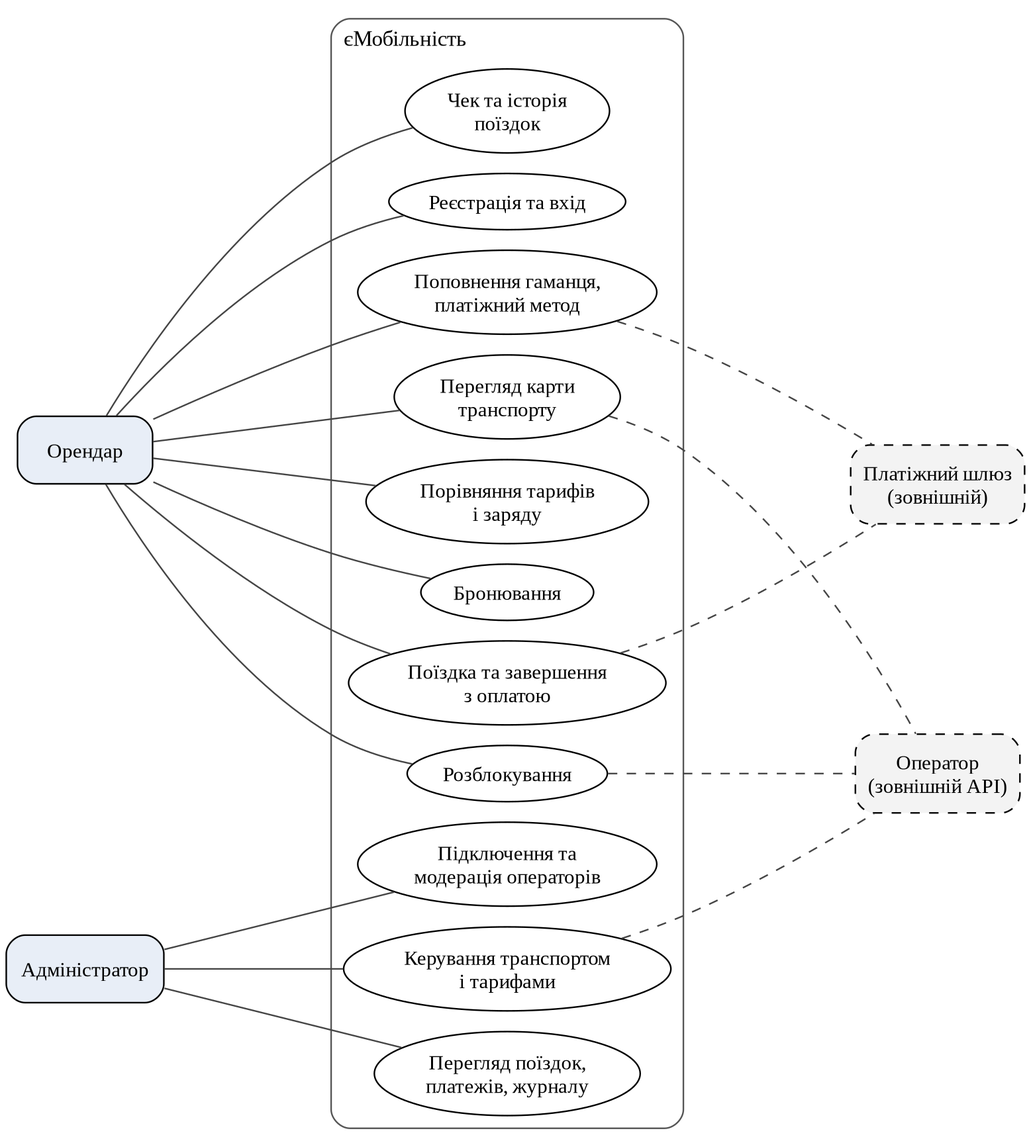
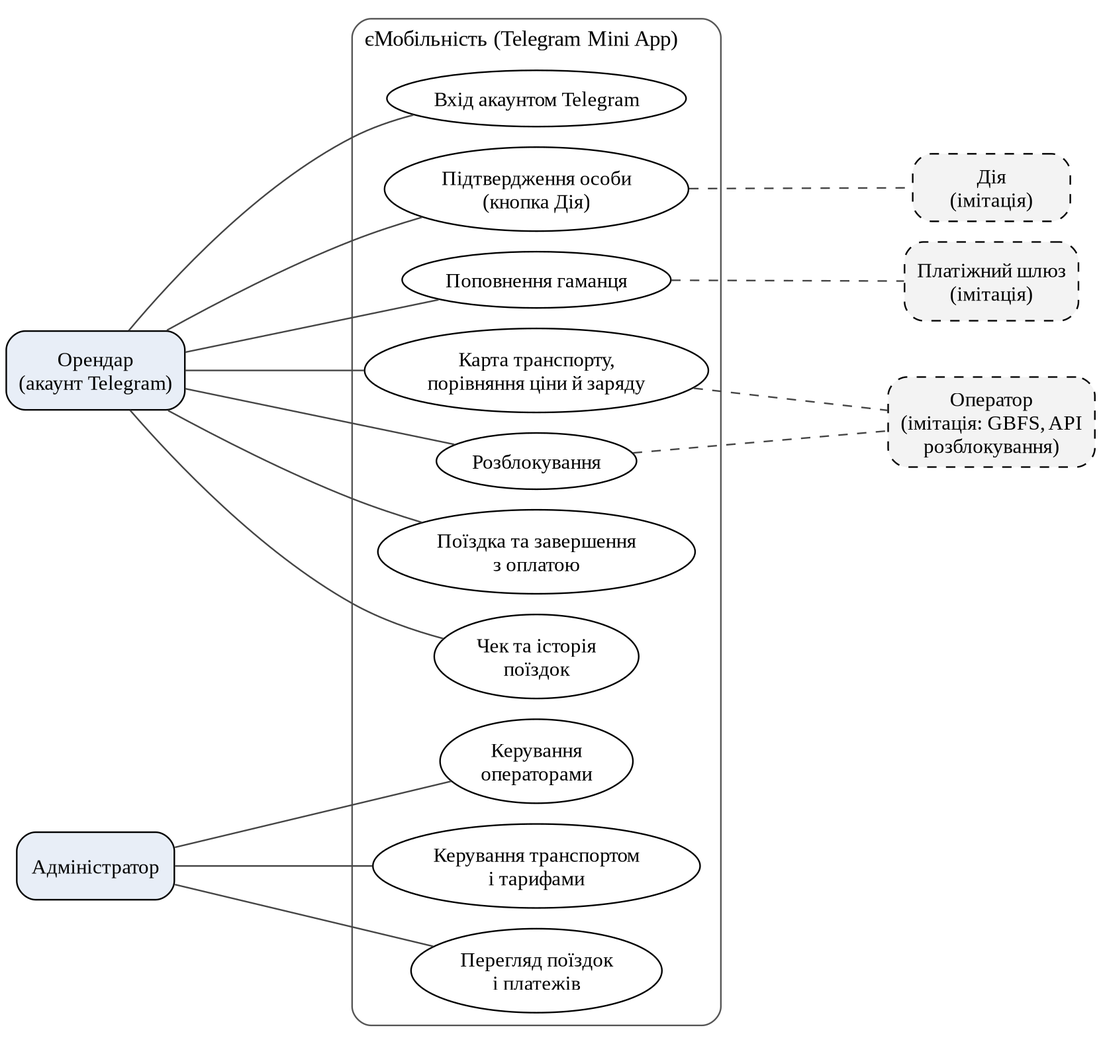
docs(dt): rewrite e-project spec as Telegram Mini App MVP

diff --git a/digital_tech/tz/report.md b/digital_tech/tz/report.md
@@ -2,15 +2,15 @@
 
 Назва розробки: «єМобільність — агрегатор оренди мікромобільного транспорту».
 
-Галузь застосування: міська мобільність, оренда мікромобільного транспорту (електросамокатів, електровелосипедів, скутерів і мопедів).
+Галузь застосування: міська мобільність, оренда мікромобільного транспорту в Києві (електросамокатів, електровелосипедів і скутерів).
 
-Наведене технічне завдання поширюється на розробку програмного забезпечення «єМобільність», яке використовується для оренди транспорту кількох операторів в одному застосунку: з одним акаунтом, одним гаманцем, зведеною картою, порівнянням тарифів і заряду, розблокуванням через API оператора, єдиним чеком та історією поїздок. Воно призначене для таких користувачів:
+Наведене технічне завдання поширюється на розробку програмного забезпечення «єМобільність» (MVP). Це Telegram Mini App, тобто вебзастосунок усередині Telegram, який відкривається з бота «єМобільність» (@emobility_ua_bot). Він використовується для оренди транспорту кількох операторів в одному застосунку: вхід за акаунтом Telegram, один гаманець, зведена карта, порівняння тарифів і заряду, розблокування через API оператора, єдиний чек та історія поїздок. Застосунок призначений для таких користувачів:
 
-- орендарі (B2C): студенти великих міст віком 18–25 років, міські працівники віком 25–45 років, туристи та епізодичні користувачі;
-- оператори мікромобільності (B2B): малі локальні оператори, для яких агрегатор стає каналом залучення клієнтів, і великі оператори;
-- міська влада, університети та коворкінги як партнери й замовники зручної мобільності.
+- орендарі: насамперед студенти Києва віком 18–25 років, також міські працівники й туристи;
+- оператори мікромобільності, для яких сервіс стає каналом залучення клієнтів;
+- адміністратор сервісу.
 
-Розробка охоплює лише мікромобільний транспорт. Автомобілі й каршеринг у розробці не розглядаються; інтеграцію з розкладом міського транспорту відкладено на наступні версії (п. 4.1.2).
+Розробка охоплює лише мікромобільний транспорт у Києві. Автомобілі не розглядаються; інтеграцію з громадським транспортом відкладено на наступні версії (п. 4.1.2).
 
 Проєкт виконує команда № 8 з дисципліни «Цифрові технології»: Чертілін П. О. (ТЦР-31), Сукач В. Ю. (ТЦР-31), Лаврішко В. С. (ТЦР-32). Технічне завдання складено одне на всю команду.
 
@@ -20,97 +20,88 @@
 
 # 3 ПРИЗНАЧЕННЯ РОЗРОБКИ
 
-Розробка призначена для зняття фрагментації ринку мікромобільності. Зараз користувач тримає окремий застосунок кожного оператора, реєструється й прив'язує картку в кожному, вчить різні правила й порівнює тарифи та заряд вручну. Єдиної історії поїздок немає, а оператори втрачають клієнтів. «єМобільність» дає один акаунт і гаманець, єдину карту транспорту, порівняння тарифів і заряду, розблокування через API оператора, єдиний чек і історію поїздок.
+Розробка призначена для подолання фрагментації ринку мікромобільності. Зараз користувач тримає окремий застосунок кожного оператора, реєструється й прив'язує картку в кожному та вручну порівнює тарифи й заряд. Єдиної історії поїздок немає, а оператори втрачають клієнтів. «єМобільність» дає одну карту транспорту, один гаманець, порівняння ціни й заряду, розблокування через API оператора, єдиний чек та історію поїздок. Користувач заходить із Telegram, окремої реєстрації немає.
 
-Мета розробки: скоротити для користувача кількість реєстрацій і кроків до початку поїздки, зробити вибір транспорту порівнянним за ціною та зарядом і дати операторам доступ до нових клієнтів. Експлуатація: орендарі користуються застосунком на смартфоні в місті, адміністратор працює в адмінпанелі. Досягнення цілі перевіряється метриками з таблиці 1 (взято з impact canvas проєкту). Числові значення є цілями навчального прототипу, а не результатами вимірювань.
+Мета розробки: скоротити для користувача кількість реєстрацій і кроків до початку поїздки та зробити вибір транспорту порівнянним за ціною й зарядом. Досягнення мети перевіряється метриками з таблиці 1. Значення є цілями, а не результатами вимірювань: швидкодію API вимірюють на серверній частині MVP (10.12), решту метрик на прототипі (етап 6, 19.11).
 
-| Метрика | Цільове значення | Спосіб вимірювання |
+| Метрика | Цільове значення | Чим вимірюється |
 |--------------|----------------|----------------------------|
-| Кількість підключених операторів | не менше 3 (імітовані: самокати, велосипеди, скутери) | Кількість записів operator зі статусом «активний» у БД |
-| Кроки до розблокування | не більше 4 кліків від карти до розблокування (вхід і платіж уже виконано) | Підрахунок кліків за сценарієм на прототипі; база для порівняння вимірюється так само в застосунках одного-двох реальних операторів і записується в пояснювальній записці |
-| Час від відкриття до розблокування | не більше 30 с | Часові мітки подій «відкрито карту» і «розблоковано», середнє з 5 прогонів |
-| Реєстрацій на N операторів | 1 реєстрація й 1 платіжний метод замість N | Порівняння сценаріїв без сервісу (N реєстрацій) і з сервісом (1) |
-| Конверсія з пошуку в бронювання | орієнтир не менше 30 % сесій | Сесії з бронюванням, поділені на всі сесії з переглядом карти (події застосунку) |
-| Поїздок на користувача на тиждень, MAU, DAU, ARPU | довідкові значення, строгих цілей немає | Події застосунку й таблиця ride; ARPU: комісія за період на одного активного користувача |
-| Retention 7/30/90 днів | орієнтир: Retention 7 днів не менше 30 % | Частка користувачів з першою поїздкою, які повернулися через 7, 30, 90 днів (таблиці booking і ride) |
-| NPS | орієнтир не менше 30 | Опитування після поїздки: частка тих, хто радить (9–10), мінус частка критиків (0–6) |
-| Частка поїздок через агрегатор | зростає в кожному періоді вимірювання | Поїздки через сервіс, поділені на всі поїздки оператора (для імітованих операторів дані генерує сценарій) |
-| Продуктивність API карти | 95 % запитів до 2 с при 100 користувачах, помилок менше 1 % | Навантажувальний тест JMeter на запиті списку транспорту |
+| Кількість підключених операторів | не менше 3 (імітовані оператори «Їжак», «Хвиля», «Рушій») | У прототипі: кількість підключених каналів операторів у форматі GBFS. У MVP: записи operator зі статусом «активний» у БД |
+| Кількість реєстрацій для N операторів | 0 окремих реєстрацій: вхід акаунтом Telegram, одне підтвердження особи через Дію й один гаманець замість N | Порівняння сценаріїв: без сервісу N реєстрацій і N платіжних методів, із сервісом один вхід |
+| Кроки до розблокування | не більше 4 дотиків від відкритої карти (вхід, підтвердження особи й поповнення вже виконано) | Підрахунок дотиків за сценарієм у прототипі; база для порівняння: той самий сценарій у застосунку одного реального оператора |
+| Час від відкриття карти до розблокування | не більше 30 с | Секундомір, середнє з 5 прогонів команди в Telegram |
+| Швидкодія API карти | 95 % запитів до 2 с при 100 одночасних користувачах, помилок менше 1 % | Навантажувальний тест JMeter на запиті списку транспорту (серверна частина MVP) |
+| Доступність інтерфейсу | оцінка Lighthouse Accessibility не нижче 90 зі 100 | Lighthouse у Chrome на публічній адресі прототипу (Cloudflare Pages) |
 
 : Таблиця 1 — Критерії якості та метрики
+
+Після запуску додатково відстежуються MAU, DAU і Retention 7/30/90 днів (метрики impact canvas команди); для прототипу цілі за ними не встановлюються.
 
 # 4 ВИМОГИ ДО ПРОГРАМНОГО ЗАБЕЗПЕЧЕННЯ
 
 ## 4.1 Вимоги до функціональних характеристик
 
-Програмне забезпечення повинне виконувати такі основні функції: реєстрація й вхід; гаманець і платіжний метод; карта транспорту з геолокацією; порівняння тарифів і заряду; бронювання; розблокування; поїздка й завершення з оплатою; чек та історія поїздок; адміністрування операторів, транспорту й тарифів. Повний перелік наведено в підрозділах 4.1.1–4.1.4.
+Програмне забезпечення повинне виконувати такі основні функції: вхід акаунтом Telegram і підтвердження особи; гаманець; карта й порівняння транспорту; розблокування, поїздка й оплата; чек та історія поїздок; адміністрування операторів, транспорту й тарифів. Повний перелік наведено в підрозділах 4.1.1–4.1.4.
 
 ### 4.1.1 Користувацького інтерфейсу
 
-Інтерфейс складається з екранів S1–S10 вебзастосунку-прототипу. Прототип розробляється на етапі 5 за цим технічним завданням і розміщується в публічному репозиторії команди. Коди екранів S1–S10 у таблиці 2 відповідають екранам прототипу.
+Інтерфейс складається з шести екранів S1–S6. Екрани S1–S5 належать до Mini App: він відкривається в Telegram з бота, бере кольори з теми Telegram (світлої або темної) і керується нижніми вкладками «Карта», «Гаманець», «Історія», «Профіль», головною кнопкою та кнопкою «Назад» Telegram. Екран S6 (адмінпанель) є вебсторінкою серверної частини й реалізується разом із серверною частиною MVP.
 
-Для кожного екрана в README прототипу є окремий розділ, посилання на нього наведено в таблиці 2.
+Прототип екранів S1–S5 розробляється на етапі 5 за цим технічним завданням. Він лежить у репозиторії проєкту й розміщується на Cloudflare Pages. Для кожного екрана в README прототипу є окремий розділ, посилання на нього наведено в таблиці 2.
 
 Прототип: [https://github.com/brizzinck/krinzhrepoduta/blob/main/digital_tech/prototype/README.md](https://github.com/brizzinck/krinzhrepoduta/blob/main/digital_tech/prototype/README.md)
 
 | Екран | Функція | Хто користується | Посилання на прототип |
 |-----|----------------------------------|-----------|-----------|
-| S1 | Реєстрація й вхід (єдиний акаунт, Дія ID або BankID) | Орендар | [README.md#s1](https://github.com/brizzinck/krinzhrepoduta/blob/main/digital_tech/prototype/README.md#s1) |
-| S2 | Профіль, гаманець і прив'язка платіжного методу | Орендар | [README.md#s2](https://github.com/brizzinck/krinzhrepoduta/blob/main/digital_tech/prototype/README.md#s2) |
-| S3 | Карта й список транспорту (Leaflet, геолокація користувача, сортування) | Орендар | [README.md#s3](https://github.com/brizzinck/krinzhrepoduta/blob/main/digital_tech/prototype/README.md#s3) |
-| S4 | Порівняння тарифів і заряду | Орендар | [README.md#s4](https://github.com/brizzinck/krinzhrepoduta/blob/main/digital_tech/prototype/README.md#s4) |
-| S5 | Картка транспорту й бронювання | Орендар | [README.md#s5](https://github.com/brizzinck/krinzhrepoduta/blob/main/digital_tech/prototype/README.md#s5) |
-| S6 | Розблокування (QR-код або кнопка, імітований API оператора) | Орендар | [README.md#s6](https://github.com/brizzinck/krinzhrepoduta/blob/main/digital_tech/prototype/README.md#s6) |
-| S7 | Активна поїздка | Орендар | [README.md#s7](https://github.com/brizzinck/krinzhrepoduta/blob/main/digital_tech/prototype/README.md#s7) |
-| S8 | Завершення поїздки, оплата, чек | Орендар | [README.md#s8](https://github.com/brizzinck/krinzhrepoduta/blob/main/digital_tech/prototype/README.md#s8) |
-| S9 | Історія поїздок і чеки | Орендар | [README.md#s9](https://github.com/brizzinck/krinzhrepoduta/blob/main/digital_tech/prototype/README.md#s9) |
-| S10 | Адмінпанель: оператори, транспорт, тарифи, поїздки, платежі, журнал дій | Адміністратор | [README.md#s10](https://github.com/brizzinck/krinzhrepoduta/blob/main/digital_tech/prototype/README.md#s10) |
+| S1 | Вхід акаунтом Telegram і підтвердження особи (кнопка «Підтвердити особу через Дію», імітація) | Орендар | [README.md#s1](https://github.com/brizzinck/krinzhrepoduta/blob/main/digital_tech/prototype/README.md#s1) |
+| S2 | Гаманець: баланс, поповнення (імітований платіжний шлюз), список операцій | Орендар | [README.md#s2](https://github.com/brizzinck/krinzhrepoduta/blob/main/digital_tech/prototype/README.md#s2) |
+| S3 | Карта Києва (Leaflet) і список транспорту: фільтр за типом, сортування за ціною, відстанню й зарядом | Орендар | [README.md#s3](https://github.com/brizzinck/krinzhrepoduta/blob/main/digital_tech/prototype/README.md#s3) |
+| S4 | Поїздка: розблокування (імітований API оператора), таймер, поточна вартість, завершення | Орендар | [README.md#s4](https://github.com/brizzinck/krinzhrepoduta/blob/main/digital_tech/prototype/README.md#s4) |
+| S5 | Чек поїздки та історія поїздок усіх операторів | Орендар | [README.md#s5](https://github.com/brizzinck/krinzhrepoduta/blob/main/digital_tech/prototype/README.md#s5) |
+| S6 | Адмінпанель: оператори, транспорт, тарифи, поїздки й платежі (вебсторінка сервера, реалізується разом із серверною частиною MVP) | Адміністратор | [README.md#s6](https://github.com/brizzinck/krinzhrepoduta/blob/main/digital_tech/prototype/README.md#s6) |
 
 : Таблиця 2 — Екрани прототипу
 
 ### 4.1.2 Для користувача
 
-- реєстрація, вхід і вихід з єдиним акаунтом для всіх операторів: через Дія ID або BankID (у прототипі імітація) або за e-mail і паролем (S1);
-- прив'язка платіжного методу й керування внутрішнім гаманцем: перегляд балансу, поповнення (S2);
-- профіль: перегляд і зміна даних користувача, експорт його даних і видалення акаунта за запитом (S2);
-- перегляд на карті транспорту всіх підключених операторів з позицією користувача, фільтр за типом транспорту (самокат, електровелосипед, скутер) і за оператором, сортування списку найближчого транспорту за відстанню, ціною та зарядом (S3);
-- динамічне порівняння тарифів (ціна розблокування, ціна за хвилину, ціна за кілометр) і рівня заряду акумулятора (S4);
-- бронювання вибраного транспорту на обмежений час (за замовчуванням 10 хвилин) зі скасуванням (S5);
-- розблокування транспорту через API оператора (S6);
-- активна поїздка: час, відстань, поточна вартість (S7);
-- завершення поїздки в дозволеній зоні паркування оператора (перевірка через API оператора), автоматичне списання коштів з гаманця й формування чека (S8);
-- історія поїздок незалежно від оператора, перегляд кожного чека (S9).
+- вхід автоматично за акаунтом Telegram; перед першою поїздкою одноразове підтвердження особи кнопкою «Підтвердити особу через Дію» (імітація); окремої реєстрації, e-mail і пароля немає (S1);
+- внутрішній гаманець: перегляд балансу й поповнення (імітований платіжний шлюз) (S2);
+- карта транспорту всіх підключених операторів із фільтром за типом: електросамокат, електровелосипед, скутер (S3);
+- порівняння найближчого транспорту: ціна старту, ціна за хвилину, рівень заряду й відстань (у прототипі від фіксованої точки біля ДУІКТ), сортування за ціною, відстанню або зарядом (S3);
+- розблокування вибраного транспорту через API оператора; воно можливе, якщо особу підтверджено, а баланс не менший за 100 грн (S4);
+- поїздка: час і поточна вартість; завершення кнопкою, а також автоматично, коли сума до сплати (тариф і комісія) досягає балансу; після завершення з гаманця списується тариф оператора плюс комісія сервісу 10 % (S4);
+- чек поїздки (оператор, транспорт, час, тариф, комісія, сума) та історія поїздок незалежно від оператора (S5).
 
-Відкладено на наступні версії, тому в цій версії не реалізуються: бронювання на заданий час наперед, універсальна страховка на час оренди, мультипас і преміум-підписки, інтеграція з розкладом міського транспорту, white-label рішення для нових операторів. Відгуки про поїздки теж відкладено на наступні версії.
+Відкладено на наступні версії, тому в цій версії не реалізуються: бронювання, універсальна страховка, мультипас і підписки, тарифікація за кілометр, перевірка зон паркування, інтеграція з громадським транспортом, white-label рішення для операторів.
+
+Підтвердження особи через Дію імітується. Сценарій відповідає проєкту рішення Київради (2026) для електросамокатів: цифрова верифікація й вік від 16 років. Це проєкт, а не чинна норма.
 
 ### 4.1.3 Для адміністратора системи
 
-- підключення, відключення й модерація операторів (S10);
-- керування транспортом оператора: додавання, зміна статусу (вільний, заброньований, у поїздці, не працює), перегляд заряду й позиції (S10);
-- керування тарифами операторів (S10);
-- перегляд поїздок і платежів з пошуком за користувачем, оператором і датою (S10);
-- перегляд журналу дій користувачів та адміністраторів (S10).
+- підключення й відключення операторів (S6);
+- керування транспортом: додавання, статус (вільний, у поїздці, не працює), заряд і позиція (S6);
+- керування тарифами операторів (S6);
+- перегляд поїздок і платежів з фільтром за оператором і датою та підсумком комісії за період (S6).
+
+Доступ до S6 має лише адміністратор; обліковий запис задається в налаштуваннях сервера.
 
 ### 4.1.4 Додаткові вимоги
 
-- логування дій користувача: вхід, бронювання, розблокування, завершення поїздки, платіж фіксуються в журналі із записом, хто, коли й що зробив; журнал підтверджує дії в разі спору;
-- сповіщення користувача про закінчення броні, початок і завершення поїздки, списання коштів (повідомлення в застосунку, S7 і S8);
-- експорт чека: перегляд чека як HTML-сторінки й збереження в PDF через друк браузера (S8, S9);
-- доступність (accessibility): достатній контраст тексту й елементів керування, керування з клавіатури, текстові підписи кнопок і полів для програм зчитування з екрана, масштабування шрифту без втрати функцій; відповідність перевіряється інструментом Lighthouse (розділ 7).
+- журнал подій на сервері (MVP): вхід, підтвердження особи, розблокування, завершення поїздки й платіж записуються з полями «хто, коли, що»; записи лише додаються й не змінюються;
+- інтерфейс підлаштовується під тему Telegram (світлу й темну), кнопки й поля мають текстові підписи, збільшений шрифт не ламає екрани;
+- доступність перевіряється інструментом Lighthouse (розділ 7).
 
 ## 4.2 Вимоги до надійності
 
-Контроль введення. Усі вхідні дані перевіряються на сервері за правилами типу, довжини й діапазону, значення з обмеженого набору (тип транспорту, статус) приймаються лише зі списку допустимих. Перевірка на клієнті не замінює серверну. Спроби дій з недопустимим станом (розблокування чужої броні, поїздка з недостатнім балансом, подвійне бронювання одного транспорту) відхиляються із зрозумілим повідомленням.
+Вимоги мають два рівні: прототип (19.11), де всі дані лежать на пристрої, і MVP із серверною частиною (10.12).
 
-Цілісність БД. Зв'язані дані зберігаються із зовнішніми ключами (транспорт до оператора й тарифу, бронювання до користувача й транспорту, платіж до гаманця й поїздки). Операції, що змінюють кілька таблиць (списання за поїздку, завершення поїздки, звільнення транспорту), виконуються в одній транзакції: або виконуються всі зміни, або жодна. Баланс гаманця не може стати від'ємним.
+Контроль введення. У прототипі вхідні дані перевіряє клієнт: суму поповнення вибирають лише кнопками 100, 200 і 500 грн, тип транспорту й сортування теж беруться лише зі списку. У MVP ті самі перевірки виконує сервер за типом, довжиною й діапазоном, а перевірка на клієнті їх не замінює. Недопустимі дії (розблокування зайнятого транспорту, друга одночасна поїздка, розблокування без підтвердження особи або з балансом менше 100 грн) відхиляються зі зрозумілим повідомленням на обох рівнях.
 
-Відновлення після збоїв. Резервна копія MySQL створюється щодоби й перед оновленням версії. Час відновлення з копії не більше 30 хвилин. Поїздка, перервана збоєм сервера, відновлюється за станом у БД: час початку поїздки зберігається, вартість розраховується під час завершення. Запуск і відновлення середовища виконуються командою `docker compose`. Цільова доступність сервісу для прототипу: не нижче 99 % на місяць, режим 24/7. Резервне копіювання виконується без зупинки сервісу. Оновлення версій виконуються в нічне вікно обслуговування (02:00–04:00) не частіше одного разу на тиждень, плановий простій не перевищує 30 хвилин і не враховується в цільовій доступності; про вікно користувачів попереджають у застосунку.
+Цілісність даних. У прототипі дані зберігаються в `localStorage` застосунку на пристрої користувача. Це лише для демонстрації (збереження не гарантоване), тому є кнопка «Скинути демо-дані». Баланс не стає від'ємним, бо поїздка завершується автоматично, коли сума до сплати досягає балансу. У MVP джерелом даних є сервер: вони зберігаються в MySQL (за перевіреним Telegram id) із зовнішніми ключами (транспорт до оператора й тарифу, поїздка до користувача й транспорту, платіж до гаманця й поїздки). Завершення поїздки, списання коштів і звільнення транспорту виконуються в одній транзакції, баланс має обмеження «не менше нуля».
 
-Персональні дані. Збираються лише ім'я, e-mail, хеш пароля, згода на обробку даних, дані поїздок і платежів (токен платіжного шлюзу й останні чотири цифри картки). Геолокація користувача використовується для показу на карті й не зберігається, координати записуються лише для початку й кінця поїздки. Пробіг для оплати за кілометр надає API оператора (телеметрія транспорту; у прототипі імітується), тому треку користувача сервіс не зберігає. Передбачено політику конфіденційності, згоду користувача при реєстрації, журнал доступів до персональних даних, експорт і видалення даних користувача за його запитом, псевдонімізацію користувача в аналітичних звітах. Повні дані картки не зберігаються. Обробка ведеться відповідно до Закону України «Про захист персональних даних». Дані поїздок і платежів зберігаються 3 роки, після чого автоматично видаляються або знеособлюються.
+Відновлення після збоїв. У прототипі дані не відновлюються: очищення сховища Telegram або браузера стирає їх. У MVP резервна копія MySQL створюється щодоби, відновлення з копії займає не більше 30 хвилин. Поїздка, перервана збоєм, відновлюється за станом у БД: час початку зберігається, вартість розраховується під час завершення. Цільова доступність серверної частини 99 % на місяць, режим 24/7.
 
-Кібербезпека. Обмін клієнта із сервером виконується через HTTPS (TLS 1.2 і вище, у навчальному середовищі допускається самопідписаний сертифікат). Паролі зберігаються як хеші BCrypt. Том з даними MySQL і резервні копії шифруються. Складається модель загроз із заходами захисту; її переглядають після кожного етапу розробки. Сканування вразливостей виконується інструментом OWASP ZAP (розділ 7).
-
-Електронні документи. Журнал подій (хто, коли, що) тільки доповнюється: застосунок не змінює й не видаляє наявні записи. Стан чека й бронювання змінюється новими записами історії статусів, а не перезаписом, тому будь-який стан можна відтворити.
+Захист даних. Зберігаються лише Telegram id, ім'я, username (необов'язковий у Telegram), ознака й час підтвердження через Дію, поїздки й платежі. У прототипі дані користувача Telegram беруться з Mini App без перевірки підпису. У MVP сервер перевіряє підпис initData за токеном бота та свіжість `auth_date` і відхиляє підроблені або застарілі запити. Дані картки не збираються: оплата імітована. Telegram Stars призначені лише для цифрових товарів, а поїздка є фізичною послугою, тому реальна оплата йшла б через платіжного провайдера, а гаманець його імітує. Геолокація не зберігається. Mini App відкривається лише за адресою HTTPS, тому й обмін із сервером іде через HTTPS. Обробка відповідає Закону України «Про захист персональних даних»: дані поїздок і платежів зберігаються 3 роки, після чого знеособлюються, дані користувача видаляються за запитом. Умови Telegram для розробників вимагають доступної політики конфіденційності: у прототипі це сторінка «Політика конфіденційності» в «Профілі», у MVP вона вказується й у @BotFather.
 
 ## 4.3 Умови експлуатації
 
@@ -118,23 +109,22 @@
 
 ### 4.3.1 Вид обслуговування
 
-Потрібне поточне обслуговування сервісу: оновлення версій і залежностей, щоденне резервне копіювання, моніторинг доступності й помилок, оновлення довідника тарифів і підключених операторів, модерація операторів.
+Потрібне поточне обслуговування: оновлення версій і залежностей, щоденне резервне копіювання MySQL, зберігання токена бота, супровід проєкту на Cloudflare Pages і сервера Docker, оновлення тарифів і списку операторів.
 
 ### 4.3.2 Обслуговуючий персонал
 
-Для реальної експлуатації потрібні такі штатні одиниці: адміністратор сервісу (модерація операторів, тарифів і транспорту, робота з адмінпанеллю, 1 особа), підтримка користувачів (звернення щодо платежів і поїздок, 1 особа), DevOps-інженер (Docker, MySQL, резервні копії, оновлення, 1 особа). У навчальному проєкті ці ролі виконують учасники команди.
+Для реальної експлуатації потрібні дві ролі: адміністратор сервісу (оператори, тарифи, транспорт, сервер, резервні копії, токен бота; 1 особа) і підтримка користувачів (питання платежів і поїздок; 1 особа). У навчальному проєкті ці ролі виконують учасники команди.
 
 ## 4.4 Вимоги до складу і параметрів технічних засобів
 
-Серверна частина працює в Docker, клієнтська частина працює в браузері. Програмне забезпечення повинне функціонувати на IBM-сумісних персональних комп'ютерах, клієнт додатково на смартфонах із геолокацією.
+Користувач потребує смартфона або комп'ютера з актуальним клієнтом Telegram (Android, iOS, Desktop або Web) і доступом до Інтернету. Прототип працює без власного сервера: це статична сторінка на Cloudflare Pages. Серверна частина MVP працює в Docker на IBM-сумісному комп'ютері.
 
-Мінімальна конфігурація технічних засобів:
+Мінімальна конфігурація технічних засобів (хост серверної частини й робоче місце розробника):
 
 - тип процесору: Intel Core i5;
 - об'єм ОЗП: 4 Гб;
 - вільне місце на диску: 10 Гб (образи Docker і дані MySQL);
-- підключення до мережі Інтернет зі швидкістю від 20 мегабіт;
-- клієнт: сучасний браузер (Chrome, Firefox, Edge або Safari поточних версій), для смартфона ще й дозвіл на геолокацію.
+- підключення до мережі Інтернет зі швидкістю від 20 мегабіт.
 
 Рекомендована конфігурація технічних засобів (та, на якій виконується розробка):
 
@@ -146,39 +136,39 @@
 
 ## 4.5 Вимоги до інформаційної та програмної сумісності
 
-Серверна частина працює в контейнерах Docker і не залежить від ОС хоста: Linux, Windows 10/11 або macOS з Docker. Клієнт працює під будь-якою ОС із сучасним браузером.
+Клієнтська частина працює в Telegram на будь-якій ОС, для якої є клієнт Telegram з підтримкою Mini App. Серверна частина працює в контейнерах Docker і не залежить від ОС хоста (Linux, Windows 10/11, macOS).
 
 ### 4.5.1 Вимоги до вхідних даних
 
 Вхідні дані повинні бути представлені в такому форматі:
 
-- API операторів: JSON з полями транспорту (ідентифікатор, тип, координати lat і lng у градусах WGS 84, рівень заряду 0–100 %, статус) і тарифу (ціна розблокування, ціна за хвилину, ціна за кілометр у гривнях з двома знаками);
-- дані користувача: ім'я, e-mail, пароль не коротше 8 символів (якщо вхід виконується не через Дія ID або BankID), згода на обробку персональних даних;
-- дані платежу: токен платіжного методу від платіжного шлюзу, сума поповнення в гривнях;
-- дата й час в ISO 8601, у UTC.
+- канали операторів у підмножині формату GBFS v3 (JSON): `vehicle_status` (`vehicle_id`, координати `lat` і `lon` в градусах WGS 84, `vehicle_type_id`, `is_reserved`, `is_disabled`, необов'язкові `current_fuel_percent` (заряд від 0 до 1) і `pricing_plan_id`) і `system_pricing_plans` (ціна розблокування в `plans[].price`, ціна за хвилину в `per_min_pricing[].rate`, `currency` UAH);
+- дані користувача: Telegram id, ім'я й необов'язковий username з initData Mini App;
+- відповідь партнерського API оператора на команду розблокування чи блокування (JSON) і сума поповнення в гривнях;
+- дата й час у форматі RFC 3339 (ISO 8601), зберігаються в UTC.
 
-У навчальному проєкті API операторів, платіжний шлюз, Дія ID і BankID замінено імітацією (mock) із тими самими форматами. Інтеграція з реальними операторами не виконується.
+У навчальному проєкті оператори «Їжак», «Хвиля» й «Рушій», API розблокування, платіжний шлюз і Дію замінено імітацією (mock) із тими самими форматами.
 
 ### 4.5.2 Вимоги до вихідних даних
 
 Результати повинні бути представлені в такому форматі:
 
+- екрани S1–S5 і адмінпанель S6: HTML;
 - відповіді API клієнту: JSON;
-- екрани вебзастосунку: HTML;
-- бронювання, чек і історія поїздок: JSON для API, HTML-сторінка для користувача, чек додатково зберігається в PDF через друк браузера;
+- чек та історія поїздок: екран Mini App, у MVP також JSON від API;
 - команди до API операторів (розблокування, блокування): JSON.
 
 ### 4.5.3 Вимоги до мови розробки
 
-Серверну частину виконати мовою програмування Java. Клієнтську частину виконати мовами HTML, CSS і JavaScript.
+Клієнтську частину виконати мовами HTML, CSS і JavaScript. Серверну частину MVP виконати мовою програмування Java 21.
 
 ### 4.5.4 Вимоги до середовища розробки
 
-Розробку виконати на платформі Spring Boot з Hibernate (JPA) і СУБД MySQL 8, середовище запуску Docker та Docker Compose. Карта в клієнті будується бібліотекою Leaflet. Тести: JUnit, Postman, OWASP ZAP, JMeter.
+Клієнтську частину виконати як Telegram Mini App на Telegram Mini Apps API (скрипт `telegram-web-app.js`) з картою Leaflet на плитках OpenStreetMap (з видимим підписом «© OpenStreetMap contributors»), розмістити на Cloudflare Pages. Серверну частину MVP виконати на платформі Spring Boot з Hibernate (JPA) і СУБД MySQL 8, збирання Maven, запуск у Docker Compose. Тести: JUnit, Postman, JMeter, OWASP ZAP, Lighthouse.
 
 ### 4.5.5 Вимоги до представленню вихідних кодів
 
-Вихідний код програми має бути представлений у вигляді проєкту в Git-репозиторії зі збірною конфігурацією Maven, файлом `docker-compose.yml` і описом запуску в `README`. Код коментується українською мовою.
+Вихідний код має бути представлений у репозиторії проєкту: статична тека клієнта (Mini App), проєкт серверної частини зі збірною конфігурацією Maven, файл `docker-compose.yml` і README з описом запуску. Код коментується українською мовою.
 
 ## 4.6 Вимоги до маркування та пакування
 
@@ -190,7 +180,7 @@
 
 ## 4.8 Спеціальні вимоги
 
-Згенерувати інсталяційну версію програмного забезпечення: запуск усієї системи (сервер, MySQL, імітовані оператори, платіжний шлюз, веб-клієнт) однією командою `docker compose up` з початковими тестовими даними.
+Згенерувати інсталяційну версію програмного забезпечення. Клієнт: статична тека, що розгортається на Cloudflare Pages і відкривається з бота «єМобільність»; у @BotFather для Mini App вказується лише робоча адреса Pages. Серверна частина MVP (сервер, MySQL, імітації операторів, платіжного шлюзу й Дії) запускається командою `docker compose up` з початковими тестовими даними.
 
 # 5 ВИМОГИ ДО ПРОГРАМНОЇ ДОКУМЕНТАЦІЇ
 
@@ -219,7 +209,7 @@
 - схема структурна станів інтерфейсу;
 - креслення вигляду екранних форм.
 
-У цьому технічному завданні наведено дві схеми: структурну варіантів використання (рисунок 1) і структурну програмного забезпечення з компонентами (рисунок 2). Решту схем буде подано в пояснювальній записці. Креслення екранних форм відповідають екранам S1–S10 прототипу (посилання в 4.1.1).
+У цьому технічному завданні наведено дві схеми: структурну варіантів використання (рисунок 1) і структурну програмного забезпечення з компонентами (рисунок 2). Решту схем буде подано в пояснювальній записці. Креслення екранних форм відповідають екранам S1–S6 (посилання в 4.1.1).
 
 ![Рисунок 1 — Схема структурна варіантів використання](img/usecase.png){width=60%}
 
@@ -227,7 +217,7 @@
 
 ## 5.2 Спеціальні вимоги до програмної документації
 
-Програмні модулі, котрі розробляються, повинні бути задокументовані, тобто тексти програм повинні містити всі необхідні коментарі. Кожен клас і публічний метод сервісного шару має короткий коментар українською мовою: призначення, вхідні дані, результат. Для REST API складається опис у форматі OpenAPI.
+Програмні модулі, котрі розробляються, повинні бути задокументовані, тобто тексти програм повинні містити всі необхідні коментарі. Кожен модуль клієнта й кожен публічний метод сервісного шару серверної частини має короткий коментар українською мовою: призначення, вхідні дані, результат.
 
 # 6 СТАДІЇ І ЕТАПИ РОЗРОБКИ
 
@@ -238,35 +228,35 @@
 | 3. | Розробка технічного завдання | 05.11 | 2 тижні | Технічне завдання |
 | 4. | Проектування структури програмного забезпечення, проектування компонентів | 12.11 | 4 тижні | Схема структурна програмного забезпечення та специфікація компонентів (діаграма класів, схема алгоритму) |
 | | Підготовка тез доповіді на конференцію | 12.11 | 1 тиждень | Тези доповіді |
-| 5. | Програмна реалізація програмного забезпечення | 19.11 | 8 тижнів | Тексти програмного забезпечення. Прототип |
+| 5. | Програмна реалізація програмного забезпечення | 19.11 | 8 тижнів | Тексти програмного забезпечення. Прототип Mini App (дані в localStorage) |
 | 6. | Тестування програмного забезпечення | 19.11 | 4 тижні | Тести, результати тестування |
 | 7. | Розробка матеріалів текстової частини роботи. Підготовка презентації | 26.11 | 3 тижні | Пояснювальна записка. Презентація |
 | 8. | Підготовка презентації | 26.11 | 2 тижні | Графічний матеріал проекту |
 | 9. | Представлення презентації на конференції | 03.12 | 1 день | Презентація |
+| | Серверна частина MVP і адмінпанель | 10.12 | 4 тижні | Тексти й тести серверної частини MVP |
 
 : Таблиця 3 — Стадії й етапи розробки (2026 рік)
 
 # 7 ПОРЯДОК КОНТРОЛЮ ТА ПРИЙМАННЯ
 
-Тестування розробленого програмного продукту виконується відповідно до програми та методики тестування, яка входить до складу документації (розділ 5). Заплановано такі види тестування.
+Тестування розробленого програмного продукту виконується відповідно до програми та методики тестування, яка входить до складу документації (розділ 5). Заплановано такі види тестування: перші три для прототипу, останні три для серверної частини MVP.
 
 | Вид | Як проводиться | Що перевіряється | Що фіксується |
 |--------------|------------------------|--------------------------|----------------------|
-| Модульне | JUnit: тести сервісів (розрахунок вартості, правила бронювання, баланс гаманця) | Правильність окремих класів і методів | Кількість тестів, пройдені й провалені тести |
-| Інтеграційне, тестування API | Postman, колекція запитів до REST API з імітованими операторами й MySQL в Docker | Взаємодія контролерів, сервісів, БД, конекторів операторів; коди відповідей і формат JSON | Результати колекції (пройдені й провалені запити) |
-| Функціональне за сценаріями | Сценарій від реєстрації до чека за екранами S1–S10 і окремо негативні сценарії | Усі функції з 4.1.2 і 4.1.3 | Таблиця «сценарій, очікуваний результат, фактичний результат» |
-| Негативні сценарії | Ручні й автоматичні перевірки | Недостатній баланс; розблокування зайнятого, заброньованого іншим або розрядженого транспорту; подвійне бронювання; некоректні дані форм; недоступність API оператора (імітована затримка й помилка); перерване з'єднання під час поїздки | Реакція системи й повідомлення користувачу, відсутність пошкоджених даних у БД |
-| Безпеки | OWASP ZAP на запущеному застосунку, перевірка автентифікації й прав доступу | Вразливості введення, керування сесією й доступом, відкриті службові ендпоінти | Перелік знахідок за ризиком і виправлень |
-| Навантажувальне (масовість) | JMeter: 100 одночасних користувачів, запит списку транспорту й бронювання | Час відповіді, частка помилок, поведінка при пікових запитах | 95-й перцентиль часу відповіді й частка помилок; ціль з таблиці 1 |
-| Зручності (usability) | Проходження сценарію розблокування на прототипі з кількома тестовими користувачами | Кількість кроків і час до розблокування, зрозумілість екранів | Кліки й час за сценарієм, оцінка NPS з таблиці 1 |
-| Доступність (accessibility) | Lighthouse (Accessibility) і ручна перевірка з клавіатури на екранах S1–S10 | Контраст, підписи елементів для програм зчитування з екрана, керування з клавіатури, масштабування шрифту | Оцінка Lighthouse, перелік знайдених проблем і виправлень |
+| Функціональне й негативне (прототип) | Сценарій S1–S5 від входу до чека в Telegram Desktop і на Android; негативні сценарії: баланс менше 100 грн, немає підтвердження через Дію, оператор відмовив у розблокуванні | Усі функції з 4.1.2, відмова з повідомленням без пошкодження даних | Таблиця «сценарій, очікуваний результат, фактичний результат» |
+| Зручності (прототип) | 5 прогонів сценарію розблокування командою, секундомір і підрахунок дотиків | Кроки й час до розблокування | Значення з таблиці 1 |
+| Доступності (прототип) | Lighthouse (Accessibility) у Chrome на публічній адресі прототипу; перегляд у світлій і темній темі Telegram, зі збільшеним шрифтом | Контраст, підписи елементів, масштабування шрифту | Оцінка Lighthouse, перелік знайдених проблем і виправлень |
+| Модульне й API (MVP) | JUnit: розрахунок вартості з комісією, списання з гаманця; Postman: колекція запитів до API з імітованими операторами й MySQL у Docker | Правильність сервісів, коди відповідей і формат JSON | Пройдені й провалені тести й запити |
+| Навантажувальне (MVP) | JMeter: 100 одночасних користувачів, запит списку транспорту | Час відповіді, частка помилок | 95-й перцентиль і частка помилок; ціль з таблиці 1 |
+| Безпеки (MVP) | OWASP ZAP (базове сканування); запит із підробленим initData; доступ до S6 без облікового запису адміністратора | Вразливості введення, відхилення підроблених і чужих запитів | Перелік знахідок і виправлень |
 
 : Таблиця 4 — Види тестування
 
-Приймання виконується на демонстрації. Програмне забезпечення вважається прийнятим, якщо виконано такі умови:
+Приймання виконується у два кроки. Прототип приймається на демонстрації 19.11 і на конференції 03.12, якщо:
 
-- система запускається з чистого клону репозиторію командою `docker compose up`;
-- повний сценарій від реєстрації до чека й історії поїздок проходить без помилок, а функції адміністратора працюють;
+- бот «єМобільність» відкриває Mini App, а повний сценарій S1–S5 від входу до чека й історії поїздок проходить без помилок;
 - негативні сценарії завершуються відмовою з повідомленням і не псують дані;
-- метрики з таблиці 1, які можна виміряти на прототипі, виміряно й результати наведено в пояснювальній записці;
+- метрики з таблиці 1, крім швидкодії API, виміряно, а результати наведено в пояснювальній записці;
 - вихідні коди, документація й схеми передано в складі, визначеному розділом 5.
+
+Серверна частина MVP приймається 10.12, якщо вона запускається з чистого клону репозиторію командою `docker compose up`, адмінпанель S6 працює, тести MVP з таблиці 4 проведено, а швидкодію API виміряно.
